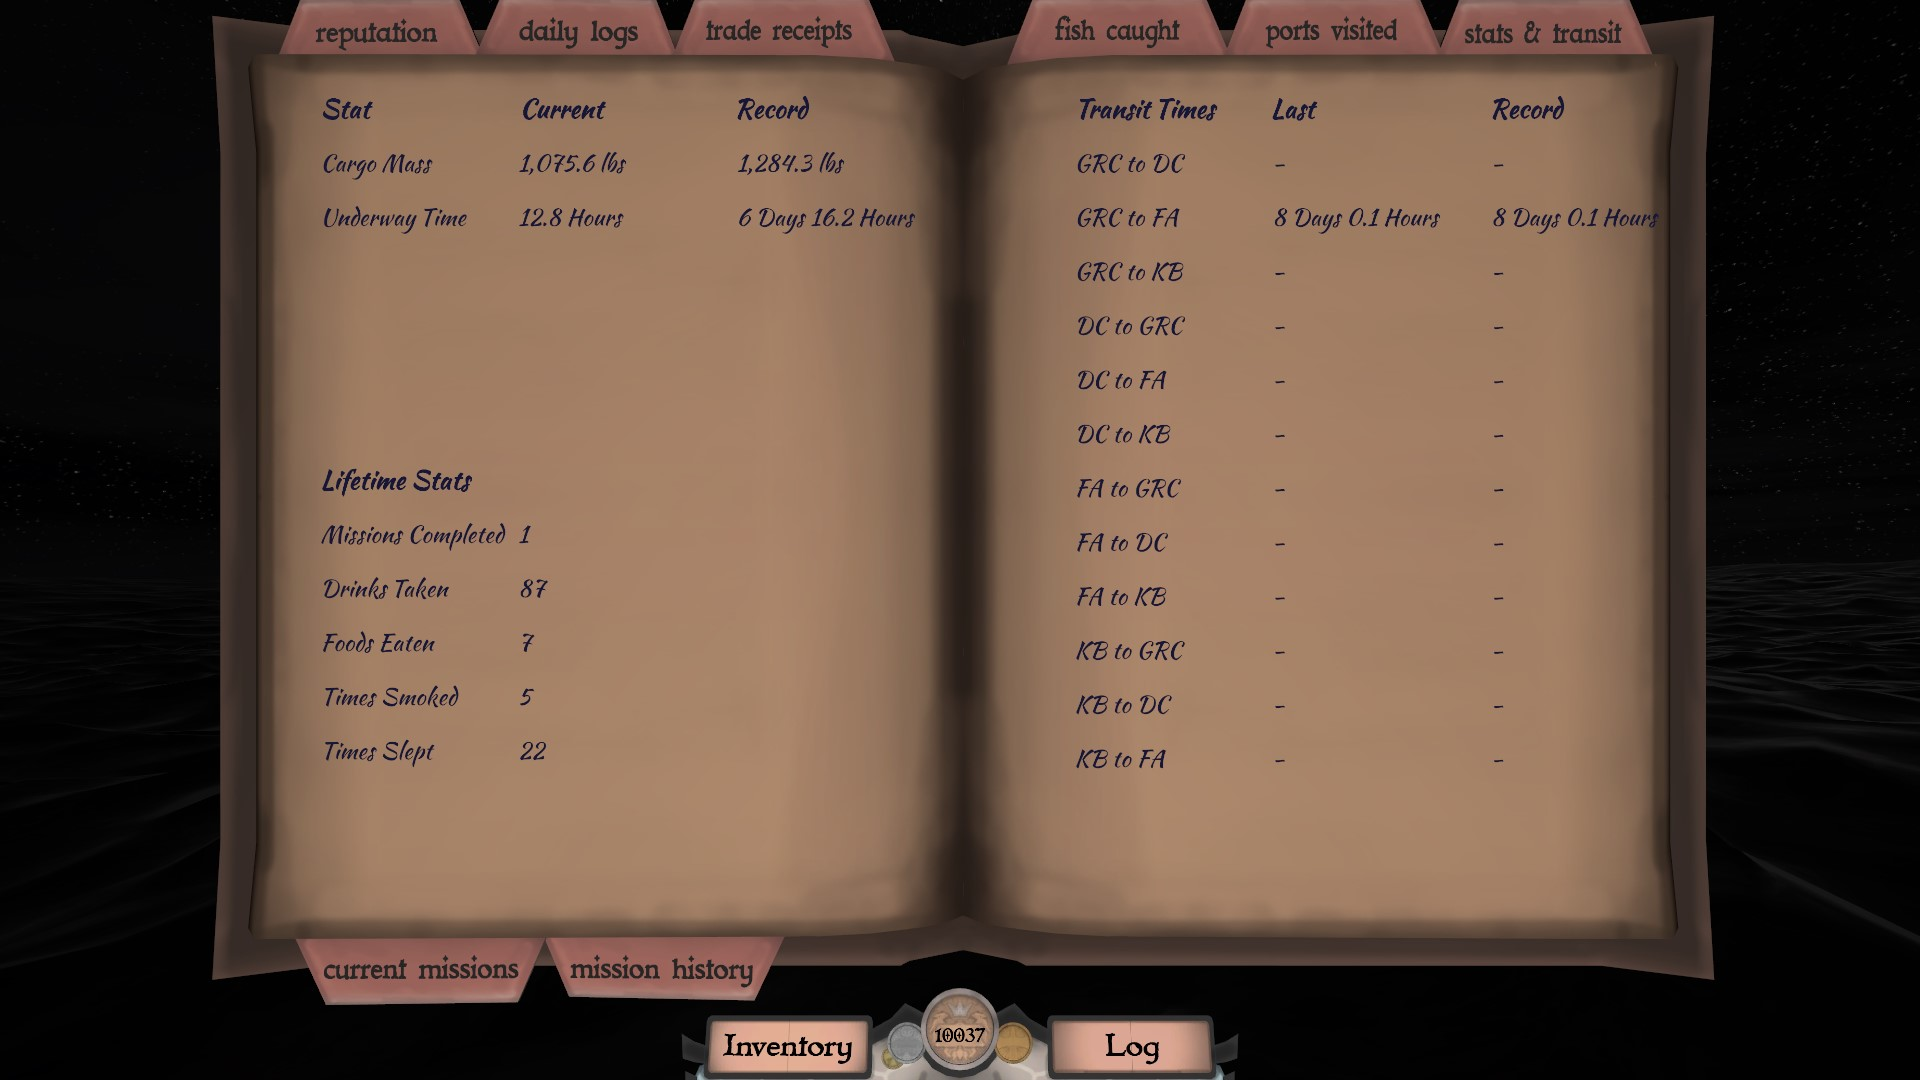
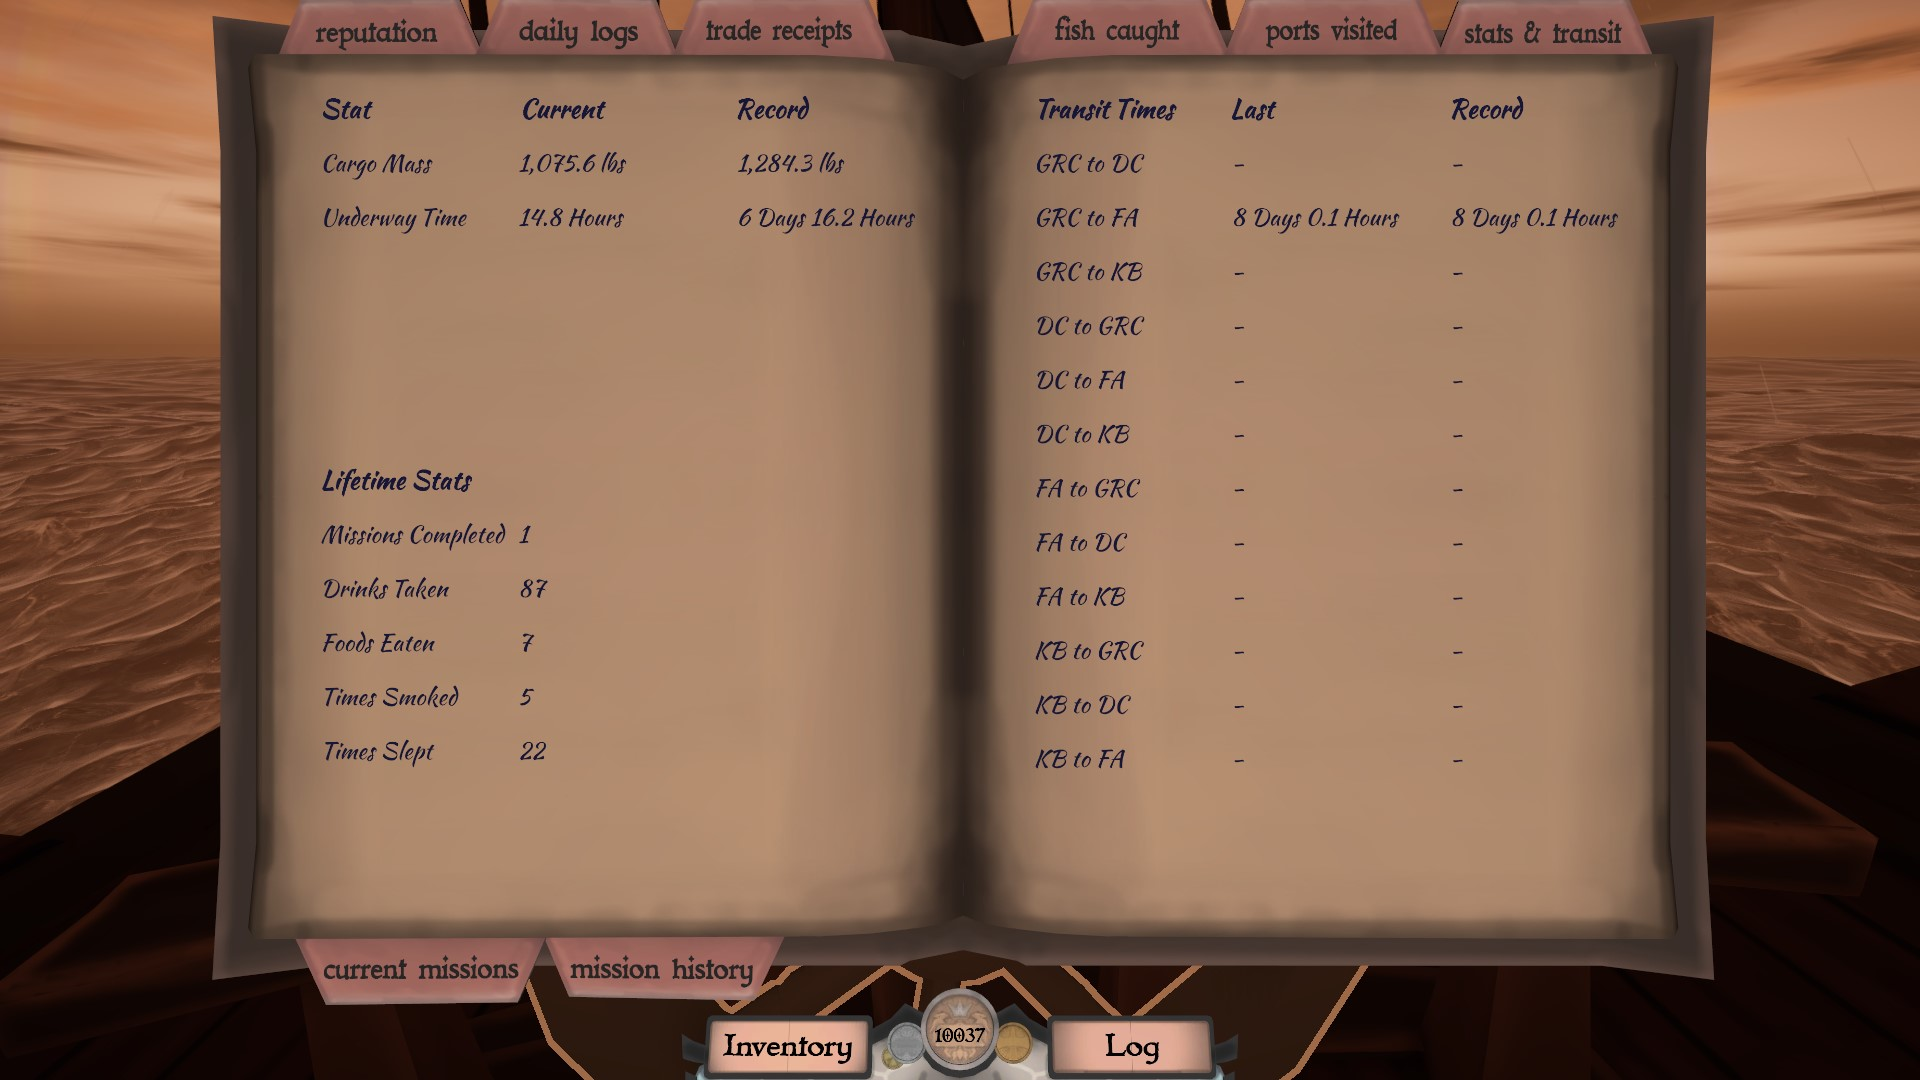
Adjusted transit time text position

diff --git a/Sail-a-dex/Patches/LogUIPatches.cs b/Sail-a-dex/Patches/LogUIPatches.cs
@@ -367,7 +367,7 @@ namespace sailadex
                 GameObject transitTextGO = GameObject.Instantiate(statsTextGO, statsTextGO.transform.parent);
                 transitTextGO.name = "transit times header";
                 transitTextGO.GetComponent<TextMesh>().text = "Transit Times         Last                            Record";
-                transitTextGO.transform.localPosition = new Vector3(0.08f, 0.24f, -0.007f);
+                transitTextGO.transform.localPosition = new Vector3(0.12f, 0.24f, -0.007f);
                 UnityEngine.Object.Destroy(transitTextGO.transform.GetChild(4).gameObject);
                 UnityEngine.Object.Destroy(transitTextGO.transform.GetChild(3).gameObject);
                 UnityEngine.Object.Destroy(transitTextGO.transform.GetChild(2).gameObject);
@@ -378,7 +378,7 @@ namespace sailadex
 
             private static void AddTrackedStat(GameObject templateGO, string name, float yPos, Dictionary<string, TextMesh> statTMs, bool ltime = false, bool transit = false)
             {
-                var xPos = transit ? 0.08f : 0.82f;
+                var xPos = transit ? 0.12f : 0.82f;
                 var preText = transit ? "last" : "current";
                 GameObject newTextGO = GameObject.Instantiate(templateGO);
                 UnityEngine.Object.Destroy(newTextGO.transform.GetChild(4).gameObject);
